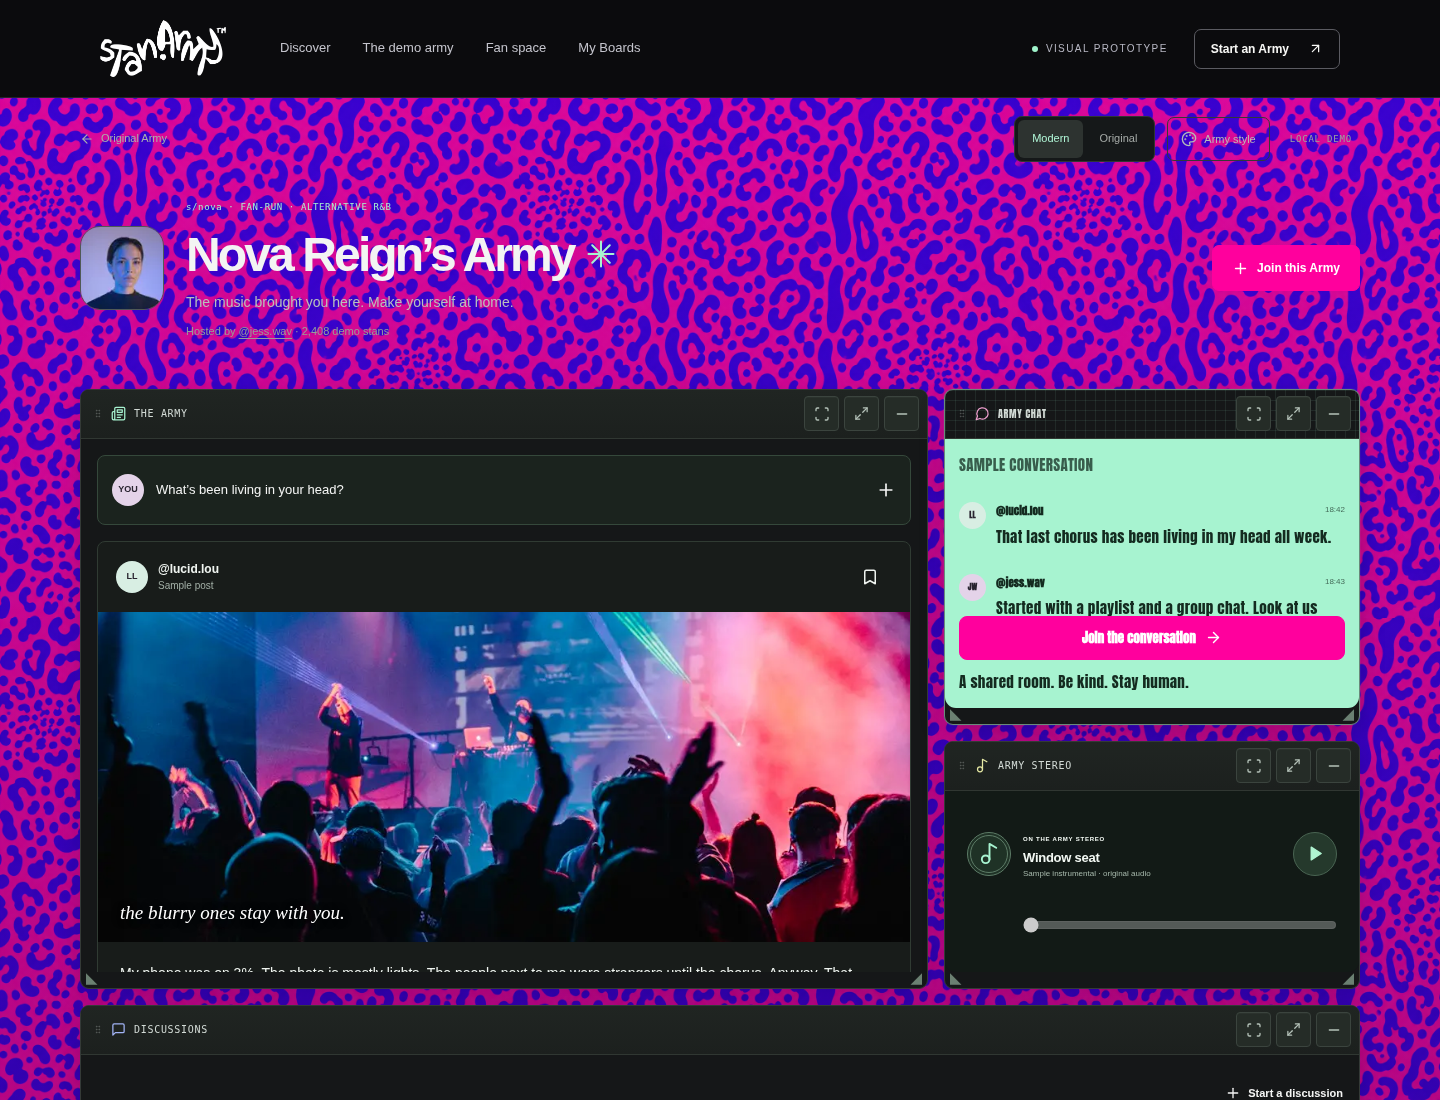
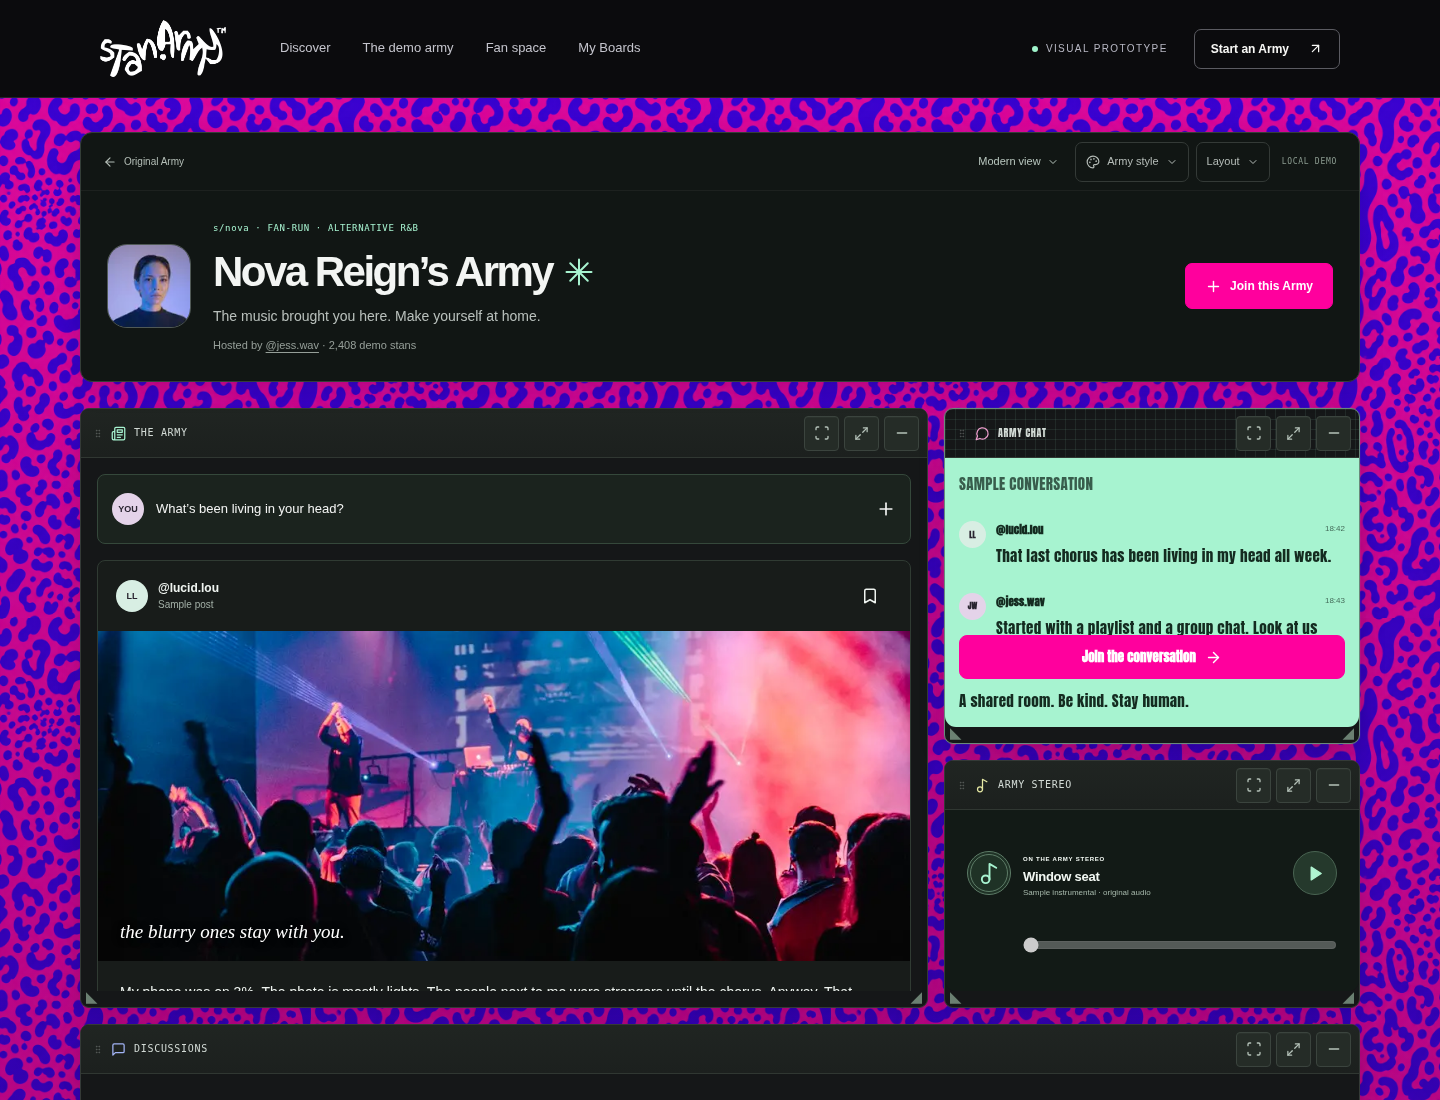
Restore Army header and consolidate controls into subtle dropdowns

diff --git a/src/components/army-desktop-playground.tsx b/src/components/army-desktop-playground.tsx
@@ -4,7 +4,7 @@ import Image from "next/image";
 import Link from "next/link";
 import { useEffect, useMemo, useRef, useState, useSyncExternalStore } from "react";
 import type { CSSProperties, KeyboardEvent, PointerEvent } from "react";
-import { ArrowDown, ArrowLeft, ArrowUpRight, Check, GripVertical, Maximize2, MessageCircle, MessageSquare, Minus, Music2, Newspaper, Palette, Plus, RotateCcw, Scan } from "lucide-react";
+import { ArrowDown, ArrowLeft, ArrowUpRight, Check, ChevronDown, GripVertical, Maximize2, MessageCircle, MessageSquare, Minus, Music2, Newspaper, Palette, Plus, RotateCcw, Scan } from "lucide-react";
 import { useDemo } from "./demo-provider";
 import { fanNotes } from "@/lib/fan-space";
 import { DesktopChat, DesktopComposer, DesktopDiscussions, DesktopMusic, DesktopPost } from "./nova-layout-study";
@@ -115,6 +115,16 @@ export function ArmyDesktopPlayground() {
     if (commit && current && next) save(next, `${names[current.id]} ${current.kind === "move" ? "moved" : "resized"}. Your arrangement is saved on this device.`);
   }
   useEffect(() => {
+    const dismiss = (event: globalThis.PointerEvent) => {
+      for (const menu of document.querySelectorAll<HTMLDetailsElement>("[data-desktop-playground] details[open]")) {
+        if (!menu.contains(event.target as Node)) menu.open = false;
+      }
+    };
+    document.addEventListener("pointerdown", dismiss);
+    return () => document.removeEventListener("pointerdown", dismiss);
+  }, []);
+
+  useEffect(() => {
     const cancel = () => {
       const current = gesture.current;
       if (!current) return;
@@ -188,9 +198,16 @@ export function ArmyDesktopPlayground() {
 
   return <main id="main" className={`${s.desktop} ${s[!modern && owner.look === "black" ? "electric" : owner.look]}`} data-desktop-playground data-interface={modern ? "modern" : "original"} data-room-style={owner.look}
     style={{ "--participation": { mint: "#e1f5eb", pink: "#fce8f3", yellow: "#fff6d5" }[owner.participation] } as CSSProperties}
-    onKeyDown={(event) => { if (event.key === "Escape") { if (gesture.current) finish(false); else if (focused) setFocused(null); } }}>
+    onKeyDown={(event) => { if (event.key === "Escape") { if (gesture.current) finish(false); else {
+      const openMenu = event.currentTarget.querySelector<HTMLDetailsElement>("details[open]");
+      if (openMenu) { openMenu.open = false; openMenu.querySelector("summary")?.focus(); }
+      else if (focused) setFocused(null);
+    } } }}>
     <div className={s.wrap}>
-      <div className={s.breadcrumb}><Link href="/armies/nova"><ArrowLeft size={14} />Original Army</Link><div className={s.viewSwitch} role="group" aria-label="Interface style"><button aria-pressed={modern} onClick={() => setModern(true)}>Modern</button><button aria-pressed={!modern} onClick={() => setModern(false)}>Original</button></div>        <details className={s.ownerSettings}><summary><Palette size={16} />Army style</summary><div>
+      <header className={s.armyHeader} aria-labelledby="playground-army-name">
+      <div className={s.breadcrumb}><Link href="/armies/nova"><ArrowLeft size={14} />Original Army</Link><div className={s.headerControls}>
+        <label className={s.viewSelect}><span className="sr-only">Interface style</span><select aria-label="Interface style" value={modern ? "modern" : "original"} onChange={(event) => setModern(event.target.value === "modern")}><option value="modern">Modern view</option><option value="original">Original view</option></select><ChevronDown size={12} aria-hidden="true" /></label>
+        <details className={s.ownerSettings}><summary><Palette size={14} />Army style<ChevronDown size={12} aria-hidden="true" /></summary><div>
           <small className={s.demoLabel}>APPEARANCE · LOCAL PREVIEW</small>
           <label>Room style<select aria-label="Army room style" value={owner.look} onChange={(event) => saveOwner({ ...owner, look: event.target.value as DesktopLook }, "Host appearance saved on this device. Your personal arrangement stayed put.")}><option value="black">Black</option><option value="electric">Electric leopard</option><option value="afterhours">After hours</option><option value="chrome">Chrome room</option></select></label>
           {!modern && <label>Participation colour<select aria-label="Army participation colour" value={owner.participation} onChange={(event) => saveOwner({ ...owner, participation: event.target.value as Participation }, "Composer and chat updated together.")}><option value="mint">Mint</option><option value="pink">Pink</option><option value="yellow">Yellow</option></select></label>}
@@ -201,13 +218,17 @@ export function ArmyDesktopPlayground() {
             <label>Typeface<select aria-label="Panel typeface" value={owner.windows[styledWindow].typeface} onChange={(event) => saveOwner({ ...owner, windows: { ...owner.windows, [styledWindow]: { ...owner.windows[styledWindow], typeface: event.target.value as WindowTypeface } } }, "Panel typeface saved.")}><option value="sans">Sans</option><option value="mono">Monospace</option><option value="chunky">Chunky</option><option value="serif">Serif</option></select></label>
             <label>Skin<select aria-label="Window skin" value={owner.windows[styledWindow].skin} onChange={(event) => saveOwner({ ...owner, windows: { ...owner.windows, [styledWindow]: { ...owner.windows[styledWindow], skin: event.target.value as WindowSkin } } }, "Window skin saved.")}><option value="solid">Solid</option><option value="leopard">Leopard</option><option value="grid">Grid</option></select></label>
           </div>
+        </div></details>
+        <details className={`${s.ownerSettings} ${s.layoutSettings}`}><summary>Layout<ChevronDown size={12} aria-hidden="true" /></summary><div>
           <button onClick={() => saveOwner({ ...owner, layout: structuredClone(layout) }, "Starting layout saved for this local host demo. Members can still make their own arrangement.")}>Use this as the starting layout <Check size={16} /></button>
           <button className={s.resetStyle} onClick={reset}><RotateCcw size={16} />Reset layout</button>
-        </div></details><span>LOCAL DEMO</span></div>
-      <header className={s.identity}>
+        </div></details>
+        </div><span>LOCAL DEMO</span></div>
+      <div className={s.identity}>
         <Image src="/images/artist.jpg" alt="Nova Reign" width={66} height={66} priority />
-        <div><span className={s.eyebrow}>s/nova · FAN-RUN · ALTERNATIVE R&B</span><h1>Nova Reign’s Army <StanStarIcon size={30} /></h1><p>The music brought you here. Make yourself at home.</p><small>Hosted by <Link href="/fans/jess-wav">@jess.wav</Link> · 2,408 demo stans</small></div>
+        <div><span className={s.eyebrow}>s/nova · FAN-RUN · ALTERNATIVE R&B</span><h1 id="playground-army-name">Nova Reign’s Army <StanStarIcon size={30} /></h1><p>The music brought you here. Make yourself at home.</p><small>Hosted by <Link href="/fans/jess-wav">@jess.wav</Link> · 2,408 demo stans</small></div>
         <button className={s.join} aria-pressed={joined} onClick={() => demo.toggle("army-nova")}>{joined ? <Check size={17} /> : <Plus size={17} />}{joined ? "Joined" : "Join this Army"}</button>
+      </div>
       </header>
 
       <p className={warning ? s.status : "sr-only"} role="status" aria-live="polite">{notice}</p>

diff --git a/src/components/army-desktop-playground.module.css b/src/components/army-desktop-playground.module.css
@@ -225,3 +225,34 @@
 .desktop .window:not([data-panel-surface=dark]) .windowBody [data-board-search] { background:transparent; border-color:var(--surface-rule); }
 @media (max-width:650px) { .breadcrumb .ownerSettings > summary { padding-inline:10px; font-size:10px; } .breadcrumb { gap:5px; } .viewSwitch button { padding-inline:10px; } .desktop[data-interface=modern] .identity { margin-bottom:22px; } }
 .desktop[data-interface=modern] .windowBody [data-board-actions] { border-bottom:1px solid #3b463f; }
+
+/* One opaque Army header keeps identity and controls legible over any room skin. */
+.armyHeader { position:relative; z-index:50; background:#111614; border:1px solid #343e38; border-radius:12px; margin:22px 0 26px; color:#f3f5f3; box-shadow:0 8px 26px #0002; }
+.armyHeader .breadcrumb { min-height:58px; padding:6px 22px; gap:16px; border-bottom:1px solid #ffffff0d; flex-wrap:wrap; }
+.headerControls { display:flex; align-items:center; gap:7px; margin-left:auto; }
+.headerControls .ownerSettings > summary { min-height:40px; gap:7px; padding:8px 10px; border:0; background:transparent; color:#b8c6be; font-size:11px; font-weight:400; }
+.headerControls .ownerSettings > summary:hover { background:#ffffff08; }
+.headerControls .ownerSettings > div { top:calc(100% + 10px); width:min(320px,calc(100vw - 44px)); }
+.viewSelect { display:flex; align-items:center; position:relative; color:#b8c6be; }
+.desktop .viewSelect select { appearance:none; background:transparent; border:0; min-height:40px; padding:8px 27px 8px 10px; color:#b8c6be; font:400 11px/1.5 Arial,sans-serif; cursor:pointer; }
+.viewSelect select option { background:#19211d; color:#f1f5f2; }
+.viewSelect > svg { position:absolute; right:9px; pointer-events:none; }
+.viewSelect:hover { background:#ffffff08; border-radius:6px; }
+.headerControls .layoutSettings > div { width:min(270px,calc(100vw - 44px)); }
+.desktop .armyHeader .identity { background:transparent; padding:26px; border:0; border-radius:0; box-shadow:none; margin:0; }
+.desktop .armyHeader .breadcrumb a { background:transparent; color:#b4beb7; padding:0; font-size:10px; }
+.desktop .armyHeader .breadcrumb > span { background:transparent; color:#8b9b90; font:400 8px/1.4 ui-monospace,monospace; padding:0; }
+.desktop[data-interface=modern] .armyHeader .identity h1 { font-size:clamp(28px,3vw,42px); }
+@media (max-width:650px) {
+ .armyHeader { margin-top:14px; margin-bottom:20px; border-radius:10px; }
+ .armyHeader .breadcrumb { padding:6px 10px; gap:2px; min-height:52px; }
+ .desktop .armyHeader .breadcrumb a { font-size:9px; }
+ .headerControls { gap:0; }
+ .headerControls .ownerSettings > summary { font-size:10px; padding-inline:6px; min-height:44px; gap:4px; }
+ .headerControls .ownerSettings > summary > svg:first-child:not(:last-child) { display:none; }
+ .desktop .viewSelect select { font-size:10px; padding-left:6px; padding-right:22px; min-height:44px; }
+ .viewSelect > svg { right:5px; }
+ .desktop .armyHeader .identity { padding:20px 16px; }
+ .desktop[data-interface=modern] .armyHeader .identity h1 { font-size:25px; }
+ .headerControls .ownerSettings > div { position:fixed; top:145px; right:22px; max-height:calc(100dvh - 170px); }
+}

diff --git a/docs/ARMY_DESKTOP_PLAYGROUND.md b/docs/ARMY_DESKTOP_PLAYGROUND.md
@@ -14,7 +14,7 @@ Below 1000px windows stack in their saved reading order. Dragging/resizing are d
 
 ## Appearance and discovery
 
-The default Modern view is near-black with mint details, hot-pink actions, restrained retro window controls and a yellow MAKE SOME NOISE invitation. Modern/Original switches the presentation without remounting window content or changing layout. Original restores the earlier expressive room treatment. The preset, visible reset and demo-role toolbar have been removed. Reset remains inside the compact Army style menu.
+The default Modern view is near-black with mint details, hot-pink actions, restrained retro window controls and a yellow MAKE SOME NOISE invitation. The header’s Modern view/Original view dropdown switches the presentation without remounting window content or changing layout. Original restores the earlier expressive room treatment. The preset, visible reset and demo-role toolbar have been removed. Reset and the local starting-layout action live in the header’s Layout dropdown. Army style is a neighbouring subtle dropdown. An opaque dark header groups the identity and page controls so they remain readable over patterned backgrounds. Dropdowns dismiss with Escape or an outside click.
 
 A single restrained window system uses slim tinted headers, consistent controls, thin borders and readable opaque content. Army style is an exposed local prototype control, not a permissions system. It provides a header accent, Solid/Leopard/Grid header skin, Dark/Mint/Pink/Blue/Acid yellow/Cream content surface, and Sans/Monospace/Chunky/Serif typeface for each window. Light surfaces use coordinated dark text and controls. Typeface changes affect window content while window management controls remain consistent. Header skins do not interfere with content or alter geometry. Room appearances include Black (default), Electric leopard, After hours and Chrome. The older linked participation colour remains available in Original view. Customisation uses enum values and local font assets; no arbitrary CSS or external fonts are loaded.
 
